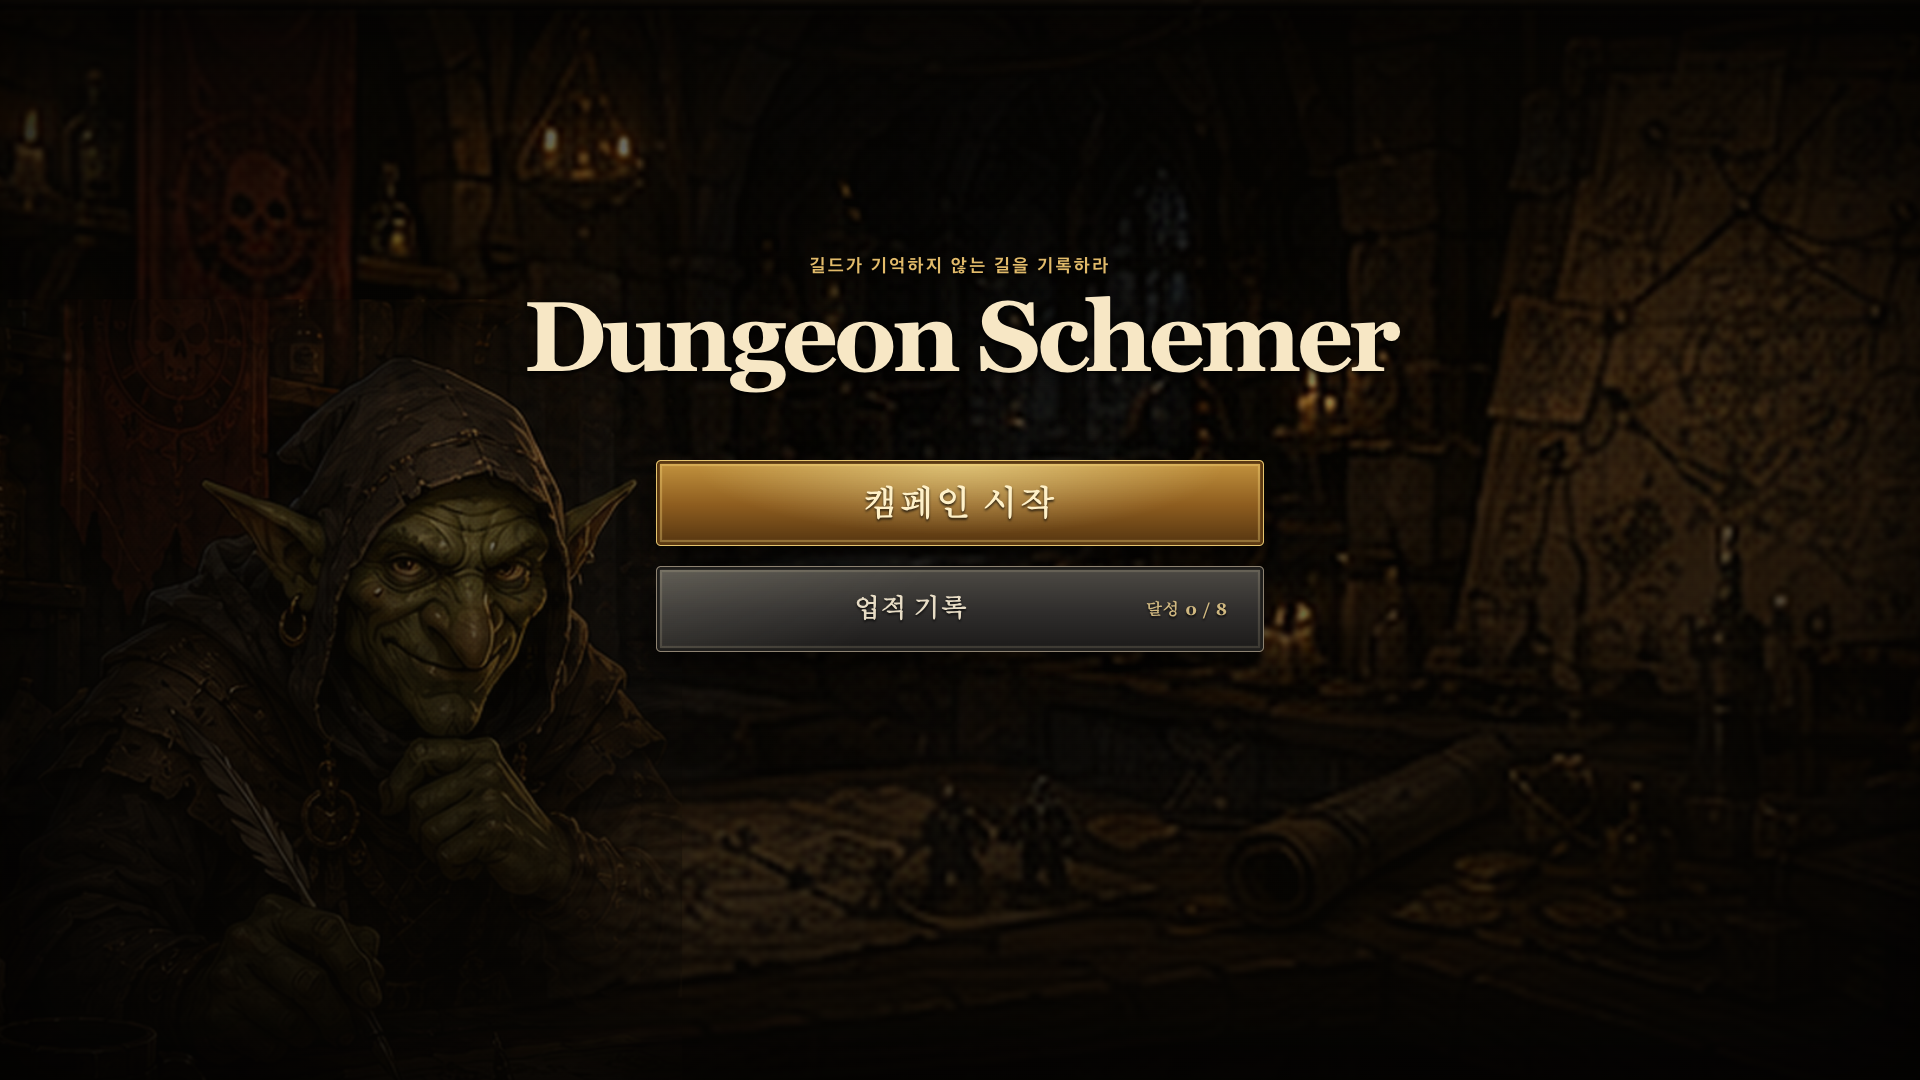
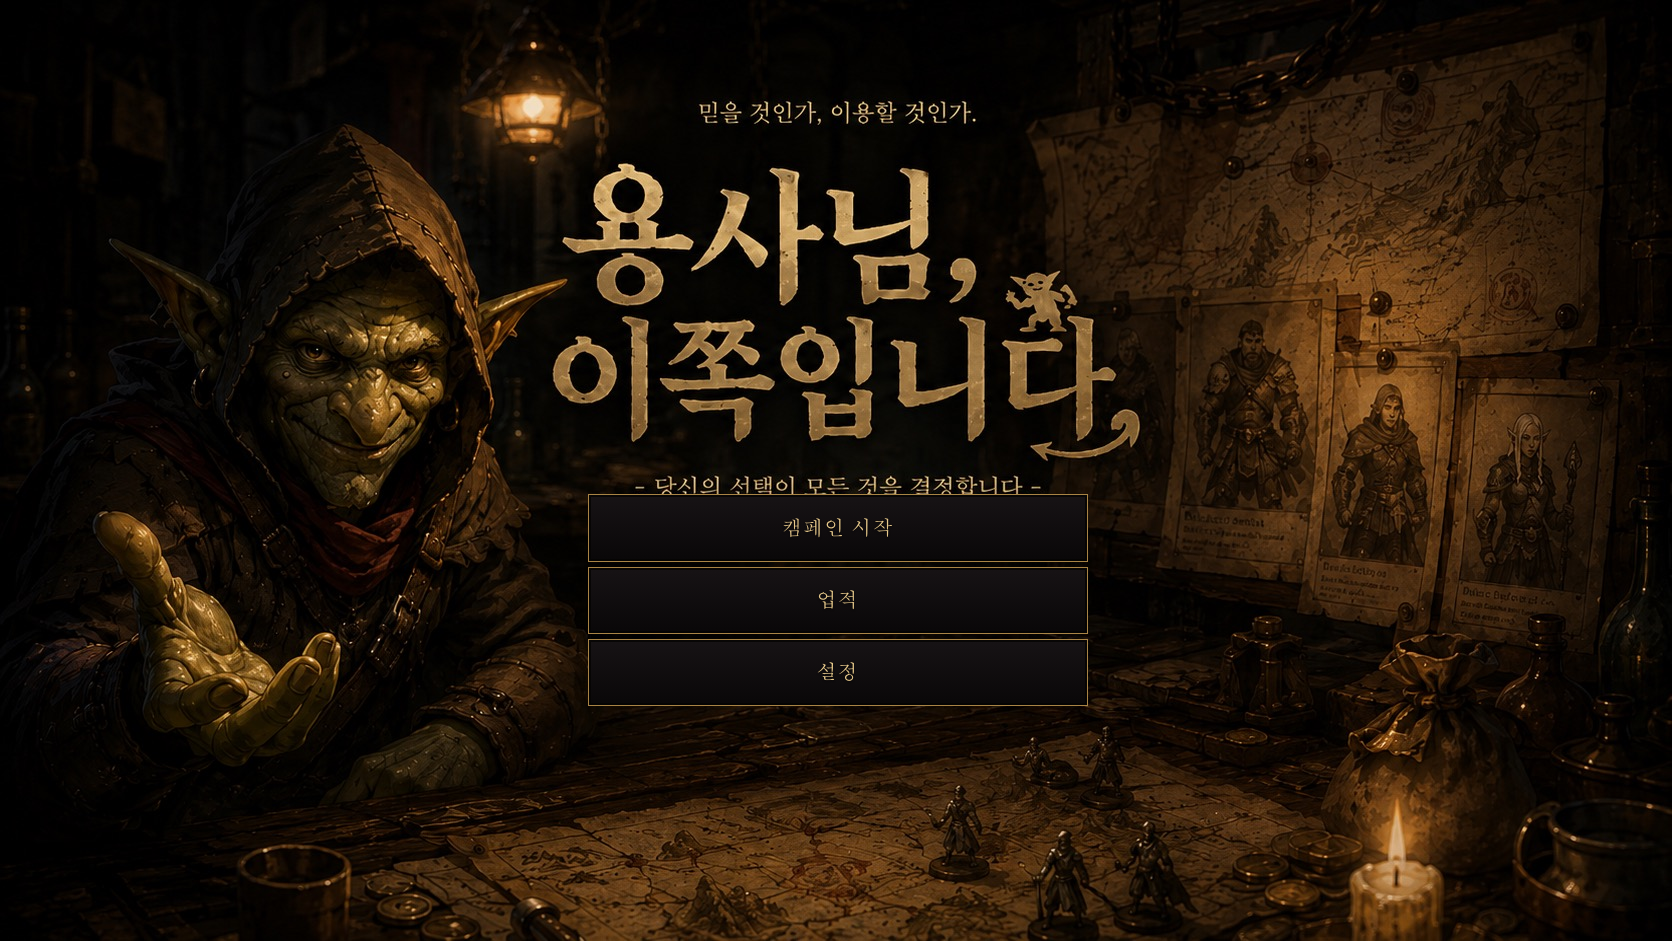
검증: 일러스트 메인 메뉴 동선을 고정한다
데스크톱과 모바일 가로 화면에서 세 메뉴의 좌표·이동·설정 포커스를 검증하고 공식 화면 문서와 대표 캡처를 갱신한다.

diff --git a/e2e/illustrated-main-menu.spec.ts b/e2e/illustrated-main-menu.spec.ts
@@ -1,0 +1,55 @@
+import { expect, test } from "@playwright/test";
+import { expectNoBrowserErrors, watchBrowserErrors } from "./browser-errors";
+
+const VIEWPORTS = [
+  { name: "desktop", width: 1672, height: 941 },
+  { name: "mobile-landscape", width: 844, height: 390 },
+] as const;
+
+for (const viewport of VIEWPORTS) {
+  test(`${viewport.name} 일러스트 메인 메뉴의 세 실제 버튼이 캔버스 안에 정렬된다`, async ({ page }) => {
+    await page.setViewportSize(viewport);
+    const failures = watchBrowserErrors(page);
+    await page.goto("/");
+
+    const canvas = page.locator(".main-menu-screen__canvas");
+    const actions = page.getByRole("navigation", { name: "메인 메뉴" });
+    await expect(page.getByRole("heading", { level: 1 })).toHaveText("용사님, 이쪽입니다");
+    await expect(page.locator(".main-menu-screen__art")).toHaveAttribute(
+      "src",
+      "/assets/main-menu/hero-this-way-main-menu.jpeg",
+    );
+    await expect(actions.getByRole("link", { name: "캠페인 시작" })).toBeVisible();
+    await expect(actions.getByRole("link", { name: "업적" })).toBeVisible();
+    await expect(actions.getByRole("button", { name: "설정" })).toBeVisible();
+    await expect(page.getByRole("button", { name: "빠른 메뉴 열기" })).toBeHidden();
+
+    const [canvasBox, actionsBox] = await Promise.all([canvas.boundingBox(), actions.boundingBox()]);
+    expect(canvasBox).not.toBeNull();
+    expect(actionsBox).not.toBeNull();
+    if (canvasBox === null || actionsBox === null) return;
+
+    expect(actionsBox.x).toBeGreaterThan(canvasBox.x);
+    expect(actionsBox.x + actionsBox.width).toBeLessThan(canvasBox.x + canvasBox.width);
+    expect(actionsBox.y).toBeGreaterThan(canvasBox.y);
+    expect(actionsBox.y + actionsBox.height).toBeLessThan(canvasBox.y + canvasBox.height);
+    expectNoBrowserErrors(failures, `${viewport.name} 일러스트 메인 메뉴`);
+  });
+}
+
+test("설정은 기존 전역 메뉴를 열고 업적과 캠페인은 실제 route로 이동한다", async ({ page }) => {
+  const failures = watchBrowserErrors(page);
+  await page.goto("/");
+
+  await page.getByRole("button", { name: "설정" }).click();
+  await expect(page.getByRole("region", { name: "빠른 메뉴" })).toBeVisible();
+  await page.keyboard.press("Escape");
+  await expect(page.getByRole("button", { name: "설정" })).toBeFocused();
+
+  await page.getByRole("link", { name: "업적" }).click();
+  await expect(page).toHaveURL(/\/achievements\?returnTo=%2F$/);
+  await page.goto("/");
+  await page.getByRole("link", { name: "캠페인 시작" }).click();
+  await expect(page).toHaveURL(/\/campaign$/);
+  expectNoBrowserErrors(failures, "일러스트 메인 메뉴 동선");
+});

diff --git a/components/game/OutOfCampaignScreenConsistency.test.ts b/components/game/OutOfCampaignScreenConsistency.test.ts
@@ -29,23 +29,14 @@ describe("캠페인 바깥 화면의 통일성", () => {
     expect(rule).toContain(".shell-cta");
   });
 
-  it("두 화면이 버튼 살결을 다시 그리지 않는다", () => {
+  it("일러스트 메인 메뉴의 액션 버튼은 불투명한 어두운 판을 쓴다", () => {
     /*
-     * 자리와 크기는 화면이 정해도 되지만 배경 판을 다시 깔면 안 된다.
-     * 예전에는 밝은 금색 gradient 와 회색 gradient 를 각각 그려 두었다.
-     *
-     * 카드 액자와 진행 막대는 버튼이 아니므로 버튼 규칙만 본다.
+     * 승인된 명패 구도에서 버튼은 그림 위에 떠도 글자가 묻히지 않는 어두운 판이다.
+     * `.main-menu-screen__action`의 배경을 지우거나 투명하게 바꾸면 이 검사가 실패한다.
      */
-    const buttonRules = (name: string): readonly string[] => {
-      const sheet = css(name);
-      const selectors = /^\.(main-menu-screen__(start|achievements)|achievement-screen__actions[^{,]*)[^{]*\{([^}]*)\}/gm;
-      return [...sheet.matchAll(selectors)].map((one) => one[3] ?? "");
-    };
+    const rule = css("main-menu.css").match(/\.main-menu-screen__action\s*\{([^}]*)\}/)?.[1] ?? "";
 
-    for (const name of ["main-menu.css", "achievements.css"]) {
-      const redrawn = buttonRules(name).filter((rule) => /background:/.test(rule));
-      expect(redrawn, name).toEqual([]);
-    }
+    expect(rule).toMatch(/background:\s*linear-gradient\(180deg,\s*#171315\s+0%,\s*#090708\s+100%\)/);
   });
 
   it("업적 화면의 제목이 셸의 제목 토큰을 쓴다", () => {

diff --git a/components/game/AppQuickMenuContext.tsx b/components/game/AppQuickMenuContext.tsx
@@ -1,6 +1,6 @@
 "use client";
 
-import { createContext, useContext, type ReactNode } from "react";
+import { createContext, useContext, type PropsWithChildren } from "react";
 
 export interface AppQuickMenuValue {
   readonly openQuickMenu: (trigger: HTMLElement) => void;
@@ -8,10 +8,9 @@ export interface AppQuickMenuValue {
 
 const AppQuickMenuContext = createContext<AppQuickMenuValue | null>(null);
 
-export function AppQuickMenuProvider({ value, children }: {
+export function AppQuickMenuProvider({ value, children }: PropsWithChildren<{
   readonly value: AppQuickMenuValue;
-  readonly children: ReactNode;
-}) {
+}>) {
   return <AppQuickMenuContext value={value}>{children}</AppQuickMenuContext>;
 }
 

diff --git a/components/game/AppQuickMenuContext.test.tsx b/components/game/AppQuickMenuContext.test.tsx
@@ -27,10 +27,8 @@ describe("AppQuickMenuContext", () => {
     const openQuickMenu = vi.fn();
     const html = renderToStaticMarkup(createElement(
       AppQuickMenuProvider,
-      {
-        value: { openQuickMenu },
-        children: createElement(CallbackCheck, { expected: openQuickMenu }),
-      },
+      { value: { openQuickMenu } },
+      createElement(CallbackCheck, { expected: openQuickMenu }),
     ));
 
     expect(html).toContain("same callback");

diff --git a/docs/experience/ONBOARDING_AND_INTERFACE.md b/docs/experience/ONBOARDING_AND_INTERFACE.md
@@ -20,9 +20,10 @@
 
 ## 화면 흐름
 
-앱의 첫 화면 `/`은 전체 캔버스 메인 메뉴다. 여기서 `캠페인 시작`은
-`/campaign`의 기존 U2 인트로로 들어가고, `업적 기록`은 `/achievements`의
-브라우저 기록 보관소로 갈라진다. 독립 업적 화면의 `이전 화면으로`는 검증된
+앱의 첫 화면 `/`은 승인 일러스트를 1672:941 전체 캔버스에 맞춘 메인 메뉴다.
+중앙의 세 실제 컨트롤 중 `캠페인 시작`은 `/campaign`의 기존 U2 인트로로 들어가고,
+`업적`은 `/achievements`의 브라우저 기록 보관소로, `설정`은 현재 route를 유지한
+전역 퀵 메뉴로 연결한다. 독립 업적 화면의 `이전 화면으로`는 검증된
 앱 내부 `returnTo`로 돌아가며, 값이 없거나 안전하지 않으면 `/`로 돌아간다.
 `캠페인 시작`은 주소를 `/campaign`으로 유지하며, 이어할 판이 있으면 그 판을
 이어 주고 없으면 새 시드로 새 캠페인을 만든다. 새로고침과 뒤로·앞으로가기도
@@ -46,8 +47,9 @@
 
 ## 전역 퀵 메뉴와 오디오
 
-메인 메뉴와 캠페인 화면 우측 상단의 세로 점 3개 버튼은 언제든 같은 세 설정과
-하나의 이동 CTA를 연다. BGM·효과음·전투 속도는 같은 설정 묶음에 정렬하고,
+캠페인 화면 우측 상단의 세로 점 3개 버튼과 메인 메뉴 중앙의 `설정` 버튼은 같은
+세 설정과 하나의 이동 CTA를 연다. 메인 메뉴에서는 중복된 우측 상단 trigger를
+숨긴다. BGM·효과음·전투 속도는 같은 설정 묶음에 정렬하고,
 `업적 기록`은 구분선 아래의 독립 버튼으로 둔다.
 
 - `BGM`: 공통 길드 BGM ON/OFF

diff --git a/docs/diagram/screens.md b/docs/diagram/screens.md
@@ -22,14 +22,14 @@
 
 [![메인 메뉴](png/screen-main-menu.png)](png/screen-main-menu.png)
 
-- `/`에서 캠페인 시작과 업적 기록의 두 실제 링크를 제공한다.
-- 업적 기록 링크는 이 브라우저에서 달성한 수를 함께 보여준다.
+- `/`에서 일러스트 중앙 명패를 덮는 `캠페인 시작`·`업적` 실제 링크와 `설정` 버튼을 제공한다.
+- 세 컨트롤은 1672:941 일러스트 캔버스 좌표를 공유하며, 설정은 같은 전역 퀵 메뉴를 연다.
 
 ### 전역 퀵 메뉴
 
 [![전역 퀵 메뉴](png/screen-global-menu.png)](png/screen-global-menu.png)
 
-- 메인 메뉴와 캠페인 화면 우측 상단에서 BGM·효과음을 각각 켜고 끈다.
+- 메인 메뉴 중앙의 `설정`과 캠페인 화면 우측 상단 trigger에서 BGM·효과음을 각각 켜고 끈다.
 - 최초값은 모두 OFF이며 ON/OFF를 색뿐 아니라 문구와 switch 상태로 구분한다.
 - `업적 기록`은 URL과 캠페인 phase를 유지한 overlay를 열고 `이전 화면으로` 또는
   `Escape`로 원래 화면에 돌아온다.
